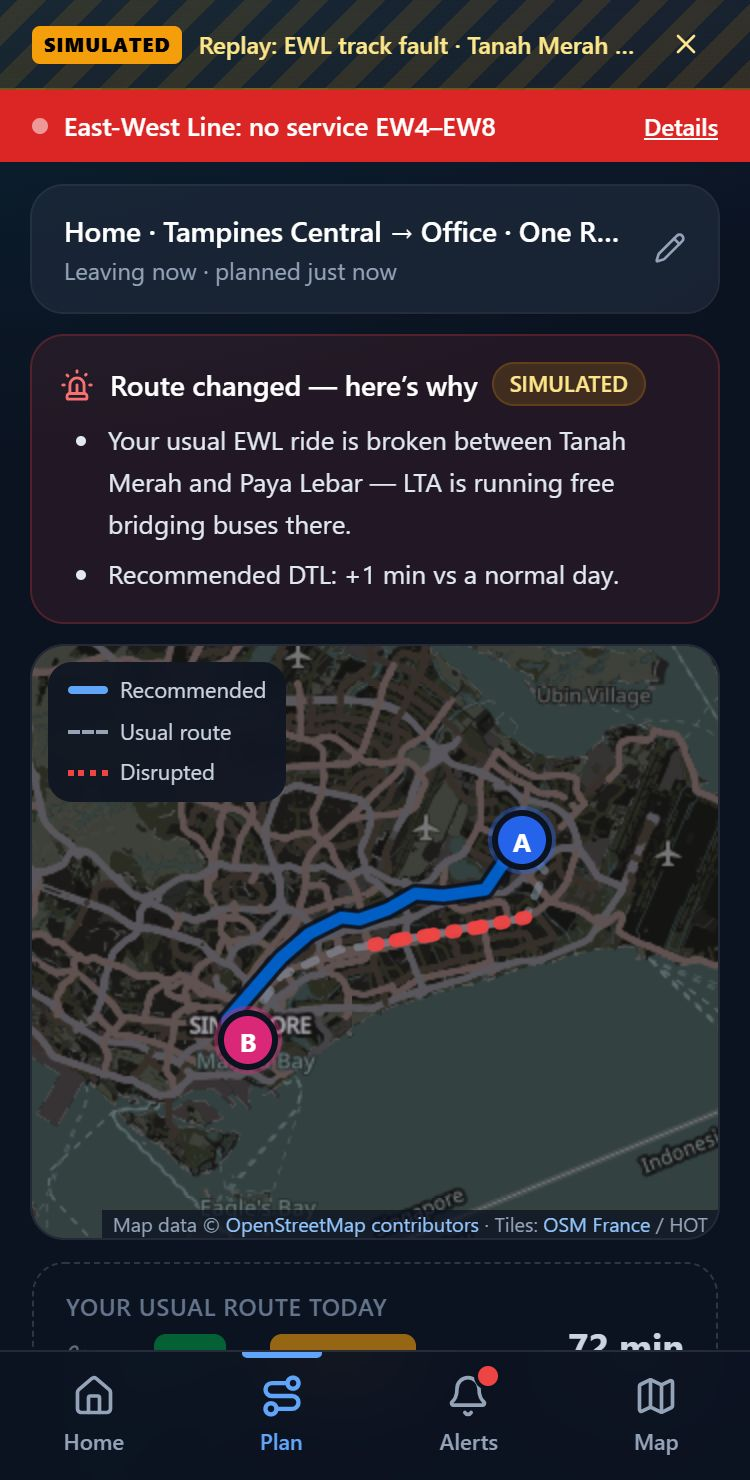
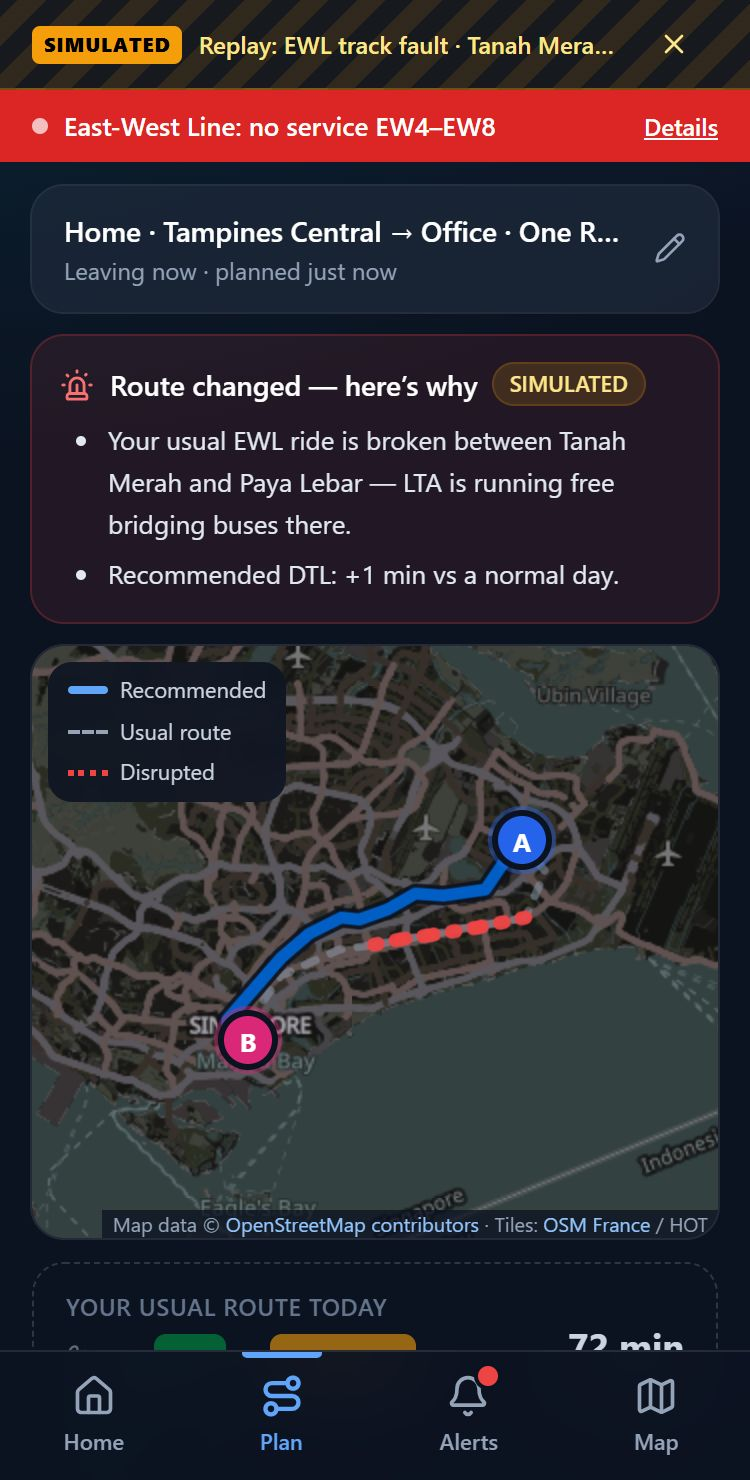
docs: walkthrough-style demo GIF (scroll + tap frames), refreshed stills
Claude-Session: https://claude.ai/code/session_01Axb3RAMDN6seR8pfgjzdvZ

diff --git a/scripts/make-gif.py b/scripts/make-gif.py
@@ -10,8 +10,8 @@ for f in files:
     hold = int(re.search(r"-h(\d+)\.png$", f).group(1))
     im = Image.open(f).convert("RGB")
     im = im.resize((375, int(im.height * 375 / im.width)), Image.LANCZOS)
-    frames.append(im.convert("P", palette=Image.ADAPTIVE, colors=128))
-    durations.append(hold * 1000)
+    frames.append(im.convert("P", palette=Image.ADAPTIVE, colors=96))
+    durations.append(hold * 100)
 frames[0].save("docs/demo.gif", save_all=True, append_images=frames[1:], duration=durations, loop=0, optimize=True)
 print("docs/demo.gif", os.path.getsize("docs/demo.gif") // 1024, "KB,", len(frames), "frames")
 
@@ -20,6 +20,5 @@ for f in files:
     for key, name in stills.items():
         if re.search(rf"\d+-{key}-h", f):
             im = Image.open(f).convert("RGB")
-            im = im.resize((375 * 2 // 2 * 1, int(im.height * 375 / im.width)), Image.LANCZOS) if im.width > 750 else im
             im.save(f"docs/{name}.jpg", quality=80, optimize=True)
             print(f"docs/{name}.jpg", os.path.getsize(f"docs/{name}.jpg") // 1024, "KB")
